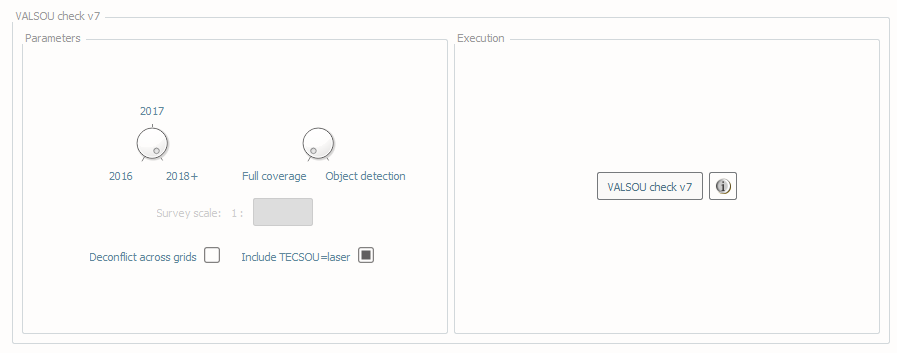
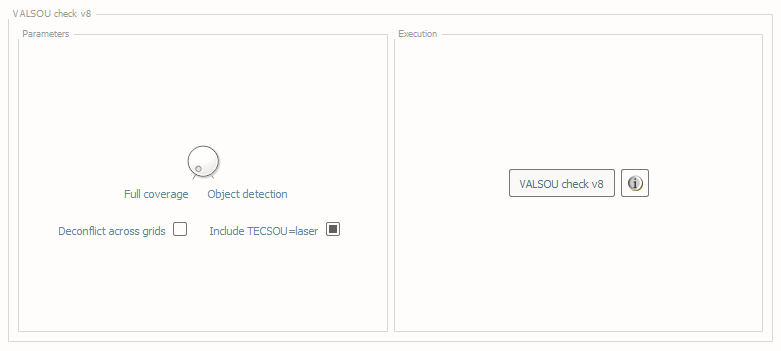
docs updates

diff --git a/docs/conf.py b/docs/conf.py
@@ -56,9 +56,9 @@ copyright = u'2021, CCOM/JHC,UNH'
 # built documents.
 #
 # The short X.Y version.
-version = '3.5'
+version = '3.6'
 # The full version, including alpha/beta/rc tags.
-release = '3.5.11'
+release = '3.6.0'
 
 numfig = True
 

diff --git a/docs/user_manual_survey_detect_fliers.rst b/docs/user_manual_survey_detect_fliers.rst
@@ -16,13 +16,13 @@ Scan grids for anomalous grid data "fliers".
 .. index::
     single: fliers; height
 
-* For **Flier finder v8**, first consider **Settings:**
+* For **Flier finder v9**, first consider **Settings:**
 
   * The **Flier height** will be determined automatically by the program and does not need to be set, but the user may choose to do so in order to run a specific **Flier height**.
   * The automatic determination of **Flier height** is performed per tile, and is based on the `median`_ depth (characteristic depth), the `MAD`_ (variability in range), and the standard deviation of the `gaussian curvature`_ (roughness).
   * The selected **Checks** are enabled by default. You can enable or disable them in order to run custom analysis (see the "How Does It Work?" section below).
 
-* To change the **Settings** for **Flier finder v8**:
+* To change the **Settings** for **Flier finder v9**:
 
   * Click the **Unlock** button, and click **OK** to the dialogue.
   * If desired, enter a desired Flier search height in meters in the **Force flier heights** box.
@@ -48,9 +48,9 @@ Scan grids for anomalous grid data "fliers".
 .. index::
     single: find fliers
 
-* In **Execution** for **Flier finder v8**:
+* In **Execution** for **Flier finder v9**:
 
-  * Click **Find fliers v8**. After executing, the output window opens automatically (:numref:`fig_detect_fliers_output`), and the results are shown:
+  * Click **Find fliers v9**. After executing, the output window opens automatically (:numref:`fig_detect_fliers_output`), and the results are shown:
 
 .. _fig_detect_fliers_output:
 .. figure:: _static/detect_fliers_output.png
@@ -59,13 +59,13 @@ Scan grids for anomalous grid data "fliers".
     :alt: output message
     :figclass: align-center
 
-    The output message at the end of **Flier finder v8** execution.
+    The output message at the end of **Flier finder v9** execution.
 
 * An output window will open in File Explorer. From the output window, drag-and-drop the desired output file into the processing software to guide the review. Each candidate flier is labeled using the identifier of the algorithm that detected it (e.g., "2" for Gaussian Curvature).
 
 * The output file names adopt the following convention:
 
-  * [grid filename].FFv8.chk[identifier of each selected algorithm].flt[identifier of each selected filter]
+  * [grid filename].FFv9.chk[identifier of each selected algorithm].flt[identifier of each selected filter]
 
 
 |
@@ -77,7 +77,7 @@ Scan grids for anomalous grid data "fliers".
 How Does It Work?
 ^^^^^^^^^^^^^^^^^
 
-**Flier finder v8:**
+**Flier finder v9:**
 
 **Estimate height:**
 
@@ -277,7 +277,7 @@ In the specific, an edge node is identified when 6 or less adjacent valid neighb
 
 Once that an edge node is identified, the least depth and the maximum difference with its neighbors are calculated.
 
-The least depth is used to calculate to local Total Vertical Uncertainty (TVU), and then a flagging threshold is set by the user and by default is set to 100% of the resulting TVU. The TVU is calculated per NOAA specifications:
+The least depth is used to calculate to local Total Vertical Uncertainty (TVU), which is used for the flagging threshold. The TVU is calculated per NOAA specifications:
 
 .. math::
 
@@ -288,33 +288,50 @@ where :math:`A = 0.5, B = 0.013` for Order 1 (depths less than 100 m), and :math
 .. note::
     Since the TVU is based on the local least depth, the algorithm automatically adapts the threshold calculation to the proper Order (1 or 2). For example if the edge node in question is 102m and its neighbors are 99m, the TVU will be calculated at Order 1 specifications.
 
-The Percent TVU option allows you to adjust the threshold height used to flag fliers. In the original implementation of Noisy Edges, the flier height was determined at 90% of the TVU of a node. Now the slider allows the user to adjust that number. The following table shows an example of how the minimum flier height would change for a node with 20m of depth:
-
-+---+---+---+---+---+----+----+----+----+---+---+
-|  Percent of TVU   |  Mimimum Flier Height (m) |
-+===+===+===+===+===+===+===+===+===+===+===+===+
-|        90         |           0.508           |
-+---+---+---+---+---+---+---+---+---+---+---+---+
-|        100        |           0.564           |
-+---+---+---+---+---+---+---+---+---+---+---+---+
-|        125        |           0.705           |
-+---+---+---+---+---+---+---+---+---+---+---+---+
-|        150        |           0.846           |
-+---+---+---+---+---+---+---+---+---+---+---+---+
-|        200        |           1.128           |
-+---+---+---+---+---+---+---+---+---+---+---+---+
-
 Finally, an edge node is flagged when the maximum depth difference with its neighbors is greater than the flagging threshold.
 
-:numref:`noisy_ex` shows an example of a flagged 18.7m edge node. Since the shallowest node in the neighborhood is 17.4m, the flagging threshold developed from 90% of the TVU was 0.490m. The maximum difference between the node and its neighbors is 1.3m, therefore the edge node was flagged.
+:numref:`noisy_ex` shows an example of a flagged 18.7m edge node. Since the shallowest node in the neighborhood is 17.4m, the flagging threshold developed from TVU was 0.549m. The maximum difference between the node and its neighbors is 1.3m, therefore the edge node was flagged.
 
 .. _noisy_ex:
-.. figure:: _static/NoisyEdges.png
+.. figure:: _static/noisy_edge_ex.png
     :width: 360px
     :align: center
     :alt: flagged example
 
     Noisy edges.
+
+----------------------------------------------------------------
+
+**Noisy Margins** *(experimental)*
+
+The Noisy Margins is tailored to identify fliers along noisy swath edges.
+
+The algorithm crawls across empty cells (2 nodes diagonally, and 3 nodes in the cardinal directions) in order to establish a margin. A margin is identified when a node is missing two neighbors in the surrounding 8 directions (N, NW, W, SW, S, SE, E, and NE).
+
+Once that a margin node is identified, the least depth and the maximum difference with its neighbors are calculated.
+
+The least depth is used to calculate to local Total Vertical Uncertainty (TVU), which is used for the flagging threshold. The TVU is calculated per NOAA specifications:
+
+.. math::
+
+    TVU = \sqrt{A^2 + (B * Depth)^2}
+
+where :math:`A = 0.5, B = 0.013` for Order 1 (depths less than 100 m), and :math:`A = 1.0, B = 0.023` for Order 2 (depths greater than 100 m).
+
+.. note::
+    Since the TVU is based on the local least depth, the algorithm automatically adapts the threshold calculation to the proper Order (1 or 2). For example if the edge node in question is 102m and its neighbors are 99m, the TVU will be calculated at Order 1 specifications.
+
+A noisy margin is flagged when the maximum depth difference with its neighbors is greater than the flagging threshold. To prevent too many flags, the algorithm searches the nearest three nodes and if any of those nodes contain a flag, it will not be flagged. If a flag is not present in a three node area, the flier is flagged.
+
+:numref:`margins_ex` shows an example of a flagged 4.5m edge node. Since the shallowest node in the neighborhood is 3.7m, the flagging threshold developed from TVU was 0.502m. The maximum difference between the node and its neighbors is 0.8m, therefore the margin node was flagged.
+
+.. _margins_ex:
+.. figure:: _static/noisy_margin_ex.png
+    :width: 360px
+    :align: center
+    :alt: flagged example
+
+    Noisy margin.
 
 ----------------------------------------------------------------
 
@@ -336,17 +353,17 @@ Finally, an edge node is flagged when the maximum depth difference with its neig
 
 A summary of the checks is shown in the table below, and also see the "How Does It Work?" section to understand how each check works.
 
-+--------------------------+-------------+-------------+-------------+-------------+------------+------------+
-|                          |   Lap #1    |   Gau #2    |   Adj #3    |   Edg #4    |   Iso #5   |   Nsy #6   |
-+==========================+=============+=============+=============+=============+============+============+
-| Flier height estimated   |      x      |             |     x       |     x       |            |            |
-+--------------------------+-------------+-------------+-------------+-------------+------------+------------+
-| Prone to excessive flags |      x      |             |             |             |     x      |     x      |
-+--------------------------+-------------+-------------+-------------+-------------+------------+------------+
-| Enabled by default       |             |     x       |     x       |     x       |     x      |            |
-+--------------------------+-------------+-------------+-------------+-------------+------------+------------+
-| Use on as-needed basis   |      x      |             |             |             |            |     x      |
-+--------------------------+-------------+-------------+-------------+-------------+------------+------------+
++--------------------------+-------------+-------------+-------------+-------------+------------+------------+------------+
+|                          |   Lap #1    |   Gau #2    |   Adj #3    |   Edg #4    |   Iso #5   |   Nsy #6   |   Nsy #7   |
++==========================+=============+=============+=============+=============+============+============+============+
+| Flier height estimated   |      x      |             |     x       |     x       |            |            |            |
++--------------------------+-------------+-------------+-------------+-------------+------------+------------+------------+
+| Prone to excessive flags |      x      |             |             |             |     x      |     x      |     x      |
++--------------------------+-------------+-------------+-------------+-------------+------------+------------+------------+
+| Enabled by default       |             |     x       |     x       |     x       |     x      |            |            |
++--------------------------+-------------+-------------+-------------+-------------+------------+------------+------------+
+| Use on as-needed basis   |      x      |             |             |             |            |     x      |     x      |
++--------------------------+-------------+-------------+-------------+-------------+------------+------------+------------+
 
 .. _median: https://en.wikipedia.org/wiki/Median
 .. _MAD: https://en.wikipedia.org/wiki/Median_absolute_deviation

diff --git a/docs/user_manual_survey_valsou_checks.rst b/docs/user_manual_survey_valsou_checks.rst
@@ -13,13 +13,6 @@ Ensure surveyed features are properly accounted for in the gridded bathymetry.
 
 In order to access this tool, load a grid and an S-57 file into the **Data Inputs** tab.
 
-.. note::
-	**VR CSAR**: this tool may provide false positives due to current limitations in accessing designated soundings through the CARIS SDK.
-
-.. note::
-	**VR BAG**: this tool may provide false positives because grids created with CARIS apps do not currently contain the location of designated soundings.
-
-
 * Select the **VALSOU check** tab (:numref:`fig_valsou_check`) on the bottom of the QC Tools interface.
 
 .. index::
@@ -27,16 +20,11 @@ In order to access this tool, load a grid and an S-57 file into the **Data Input
 
 * In **Parameters**:
 
-    * Turn the knob to select the applicable year as pertaining to required HSSD.
     * Turn the knob to select the survey mode: **Full coverage** or **Object detection**.
-    * For 2016 and 2017, enter in the applicable survey scale (e.g. 10,000 or 20,000, etc.).
     * The **Deconflict across grids** checkbox may be enabled if the grids that are loaded have overlaps. If a feature has no grid data directly underneath, the nodes of the other grids in memory will be searched to find a valid match.
     * The **Include TECSOU=laser** checkbox may be enabled (in the event of lidar bathymetry wherein we'd expect features to be represented in the grid), or disabled (as in the case of shoreline investigations wherein we'd not have this expectation).
 
-.. note::
-	There are currently not differences between the checks applied for NOAA NOS HSSD 2016 and 2017. Survey scale is no longer needed in 2018 as all VALSOUs must agree with corresponding grids.
-
-* In **Execution**, click **VALSOU check v7**
+* In **Execution**, click **VALSOU check v8**
 
 
 .. _fig_valsou_check:
@@ -58,14 +46,20 @@ In order to access this tool, load a grid and an S-57 file into the **Data Input
     :align: center
     :figclass: align-center
 
-    The output message at the end of **VALSOU check v7** execution.
+    The output message at the end of **VALSOU check v8** execution.
 
 
 * From the output window, drag-and-drop the output into the processing software to guide the review.
 
 * The output names adopt the following convention:
 
-    * [grid].[s57].VCv7.[version].[".las" -> **Include TECSOU=laser**][".dec" -> deconfliction]["od"|"fc" -> mode]
+    * [grid].[s57].VCv8.[version].[".las" -> **Include TECSOU=laser**][".dec" -> deconfliction]["od"|"fc" -> mode]
+
+.. note::
+	**VR CSAR**: this tool may provide false positives due to current limitations in accessing designated soundings through the CARIS SDK.
+
+.. note::
+	**VR BAG**: this tool may provide false positives because grids created with CARIS apps do not currently contain the location of designated soundings.
 
 |
 
@@ -76,7 +70,17 @@ In order to access this tool, load a grid and an S-57 file into the **Data Input
 How Does It Work?
 ^^^^^^^^^^^^^^^^^
 
-The grid is scanned for features expected to be represented in the grid as per specification. These features are new or updated wrecks, rocks, and obstructions, and a grid node should be found that agrees with the feature VALSOU.
+The grid is scanned for features expected to be represented in the grid as per specification. These features are new or updated wrecks, rocks, and obstructions, and a grid node should be found that agrees with the feature VALSOU. 
+
+For each feature, 9 grid node depths are selected: the grid node depth closest in position to the feature, and the 8 grid nodes surrounding it (:numref:`fig_valsou_check_nodes`). The minimum depth is selected from those 9 grid node depths, and that minimum depth must match the feature VALSOU (to centimeter precision). If not, a flag is raised. Note, this check not only ensures parity between feature VALSOUs and the grid, but it will also ensure the VALSOU entered is the most shoal depth among the 9 grid nodes atop the feature.
+
+.. _fig_valsou_check_nodes:
+.. figure:: _static/valsou_check_node_search.png
+    :width: 400px
+    :align: center
+    :figclass: align-center
+
+    The grid node closest in position to the feature and the 8 grid nodes surrounding it are included in the search. The minimum of these nodes must match the feature VALSOU.
 
 .. note::
 	If the input grid files follow the NOAA OCS naming convention (e.g., having "_1m_" in the filename), this information is retrieved and used to only evaluate the features with VALSOU value in the corresponding validity range (e.g., 0 - 20 m).
@@ -98,7 +102,7 @@ Upon completion of the execution of **VALSOU Checks** you will receive a pop-up 
     :align: center
     :figclass: align-center
 
-    The output message at the end of **VALSOU Cheks** execution.
+    The output message at the end of **VALSOU Checks** execution.
 
 The output of this tool is a .000 file that contains $CSYMB features which provides the location of the potential discrepancy. Drag and drop in your GIS of choice. The NINFOM field indicates the reason for the flagged object.
 

diff --git a/docs/user_manual_survey_scan_features.rst b/docs/user_manual_survey_scan_features.rst
@@ -114,7 +114,8 @@ The logic for the 2021 QC Tools feature scan is shown below. For previous years,
         * Must have **QUASOU** and **TECSOU** of null/undefined.
         * Receive a warning if **WATLEV** is not "unknown".
     * If obstruction is foul ground:
-        * Must have **VALSOU**, **WATLEV**, **QUASOU**, and **TECSOU**.
+        * Must have **WATLEV**.
+        * Must have **VALSOU**, **QUASOU**, and **TECSOU** of null/undefined.
     * If obstruction is a foul area:
         * Must not have **VALSOU** populated.
         * Receive a warning if **WATLEV** is not "unknown".
@@ -141,7 +142,8 @@ The logic for the 2021 QC Tools feature scan is shown below. For previous years,
 * Specific for the Office Profile:
     * All features must have **onotes.**
     * All features must have **hsdrec.**
-    * Checks for features that are prohibited by MCD (**DRGARE, LOGPON, PIPARE, PIPOHD, PIPSOL, DMPGRD LIGHTS, BOYLAT, BOYSAW, BOYSPP, DAYMAR, FOGSIG, CBLSUB, CBLARE, FAIRWY, RTPBCN, BOYISD, BOYINB, BOYCAR, CBLOHD, BCNSPP, BCNLAT, BRIDGE, OBSTRN with CATOBS = 5**, and **MORFAC** with **CATMOR = 7**.
+    * Checks for features that are prohibited by MCD (**DRGARE, LOGPON, PIPARE, PIPOHD, PIPSOL, DMPGRD, CBLSUB, CBLARE, FAIRWY, CBLOHD, BCNSPP, BRIDGE, OBSTRN with CATOBS = 5**, and **MORFAC** with **CATMOR = 7**.
+    * Flags ATONS if they are found in the file. MCD defines ATONS as: **LIGHTS, BOYLAT, BOYSAW, BOYSPP, DAYMAR, FOGSIG, RTPBCN, BOYISD, BOYINB, BOYCAR, BCNSPP, BCNLAT, BCNSAW, BCNCAR**, and **BCNISD**
     * All **M_QUAL** features must have **CATZOC, SURSTA, SUREND,** and **TECSOU.**
     * All features must have **descrp** and **remrks**.
 

diff --git a/docs/user_manual_survey_bag_checks.rst b/docs/user_manual_survey_bag_checks.rst
@@ -78,7 +78,10 @@ The BAG files are inspected to ensure compliance with NOAA NBS requirements and 
 **Check the tracking list**: Checks to ensure the validity of the tracking list. Checks the following:
     * For the presence of the Tracking List dataset and the VR Tracking List dataset (VR only)
     * Validity of the entries in the 'row' column
-    * Validity of the entries in the 'col' column 
+    * Validity of the entries in the 'col' column
+
+**Check GDAL Compatibility**: Checks to ensure that the surface is compatible with GDAL. Checks the following:
+    * Checks that that the grid does not have more than 10,000,000 refinement grids which will result in a GDAL error
 
 
 .. rubric:: Footnotes
